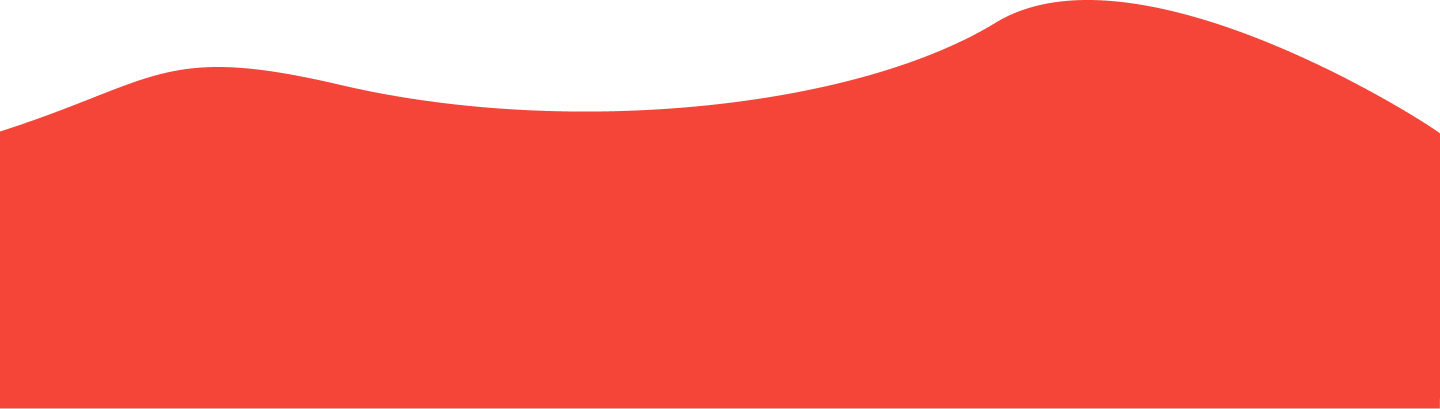
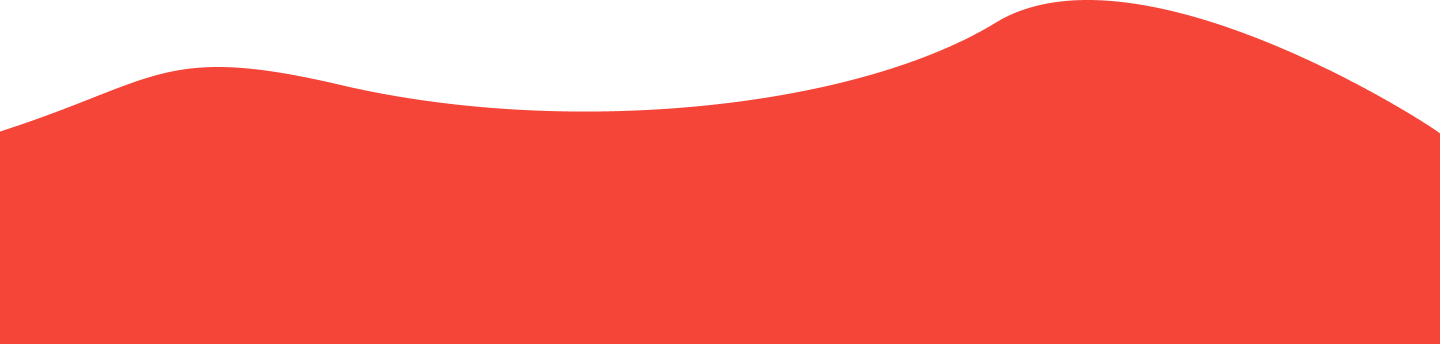
updating features description

diff --git a/components/features.component.jsx b/components/features.component.jsx
@@ -16,7 +16,6 @@ const Features = () => {
             />
             <h3>Powerful</h3>
             <p>Play all your trash games at a glorious 10fps.</p>
-            <p>Because it's Trash-can not Trash-can't.</p>
           </div>
 
           <div className="card">
@@ -28,8 +27,8 @@ const Features = () => {
             />
             <h3>Killer Connectivity</h3>
             <p>
-              With internet speeds reaching up to 500kbps, you can now stream
-              all the trash content you like.
+              With internet speeds reaching up to 500kbps, you can now smoothly
+              stream all the trash content you like.
             </p>
           </div>
 
@@ -41,14 +40,16 @@ const Features = () => {
               height={800}
             />
             <h3>Modern Design</h3>
-            <p>Like Eminem once said:</p>
-            <p>Same sh*t different toilet.</p>
+            <p>
+              An all new trash design, allowing you to take your trash game to
+              the next level.
+            </p>
           </div>
         </div>
       </section>
 
       <div className="wave">
-        <img src="/images/wave.png" alt="wave" height="409px" width="1440px" />
+        <img src="/images/wave.png" alt="wave" />
       </div>
     </div>
   );

diff --git a/styles/_features.scss b/styles/_features.scss
@@ -13,7 +13,6 @@
     }
     img {
       width: 100vw !important;
-      max-height: 400px !important;
     }
   }
 
